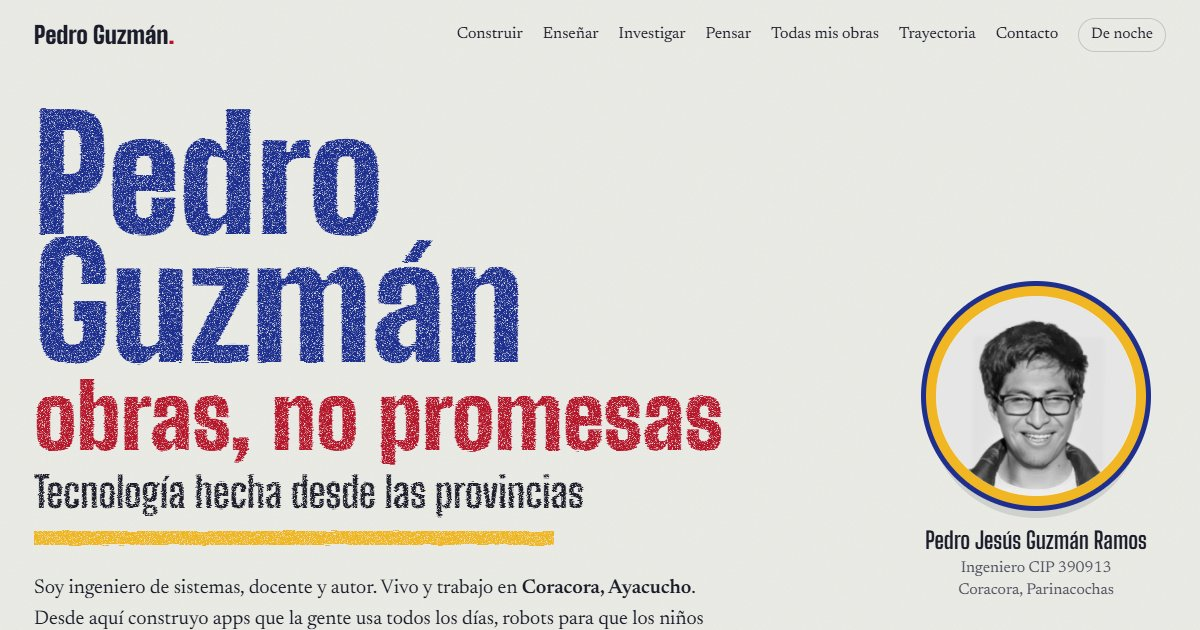
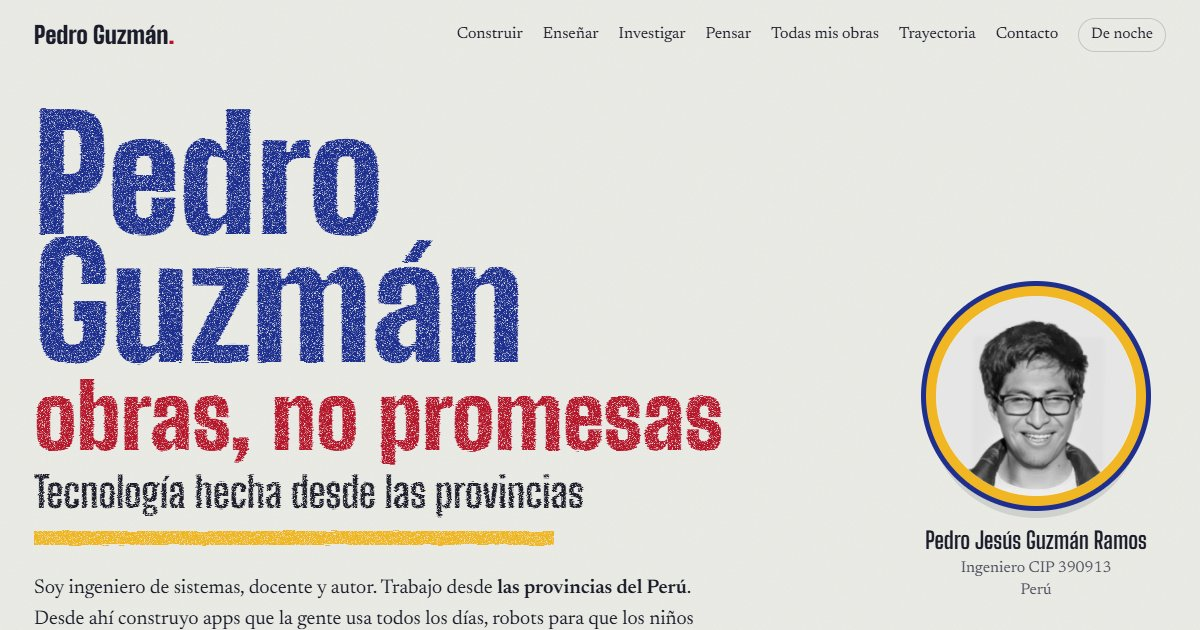
Ubicación general (Perú) en presentación y SEO

Changed region(s): [[0.0617, 0.9048, 0.5858, 1.0], [0.8017, 0.9048, 0.925, 0.9651]]

diff --git a/index.html b/index.html
@@ -3,8 +3,8 @@
 <head>
 <meta charset="utf-8">
 <meta name="viewport" content="width=device-width, initial-scale=1">
-<title>Pedro Jesús Guzmán Ramos | Ingeniero de sistemas, docente y autor en Coracora, Ayacucho</title>
-<meta name="description" content="Pedro Jesús Guzmán Ramos: ingeniero de sistemas, docente y autor de Coracora, Ayacucho. Creador de ApuraY, TiniBot, MindBlock, QUIPUY y BIT-ONE, y autor de Libertad en los Andes.">
+<title>Pedro Jesús Guzmán Ramos | Ingeniero de sistemas, docente y autor peruano</title>
+<meta name="description" content="Pedro Jesús Guzmán Ramos: ingeniero de sistemas, docente y autor peruano. Creador de ApuraY, TiniBot, MindBlock, QUIPUY y BIT-ONE, y autor de Libertad en los Andes.">
 <meta name="author" content="Pedro Jesús Guzmán Ramos">
 <meta name="robots" content="index, follow, max-image-preview:large">
 <link rel="canonical" href="https://jesusguzman28.github.io/">
@@ -37,7 +37,7 @@
 <link rel="stylesheet" href="https://fonts.googleapis.com/css2?family=Big+Shoulders+Display:wght@500;700;900&family=Newsreader:ital,opsz,wght@0,6..72,400;0,6..72,500;0,6..72,600;1,6..72,400&display=swap" media="print" onload="this.media='all'">
 <noscript><link rel="stylesheet" href="https://fonts.googleapis.com/css2?family=Big+Shoulders+Display:wght@500;700;900&family=Newsreader:ital,opsz,wght@0,6..72,400;0,6..72,500;0,6..72,600;1,6..72,400&display=swap"></noscript>
 <script type="application/ld+json">
-{"@context": "https://schema.org", "@graph": [{"@type": "ProfilePage", "@id": "https://jesusguzman28.github.io/#pagina", "url": "https://jesusguzman28.github.io/", "name": "Pedro Jesús Guzmán Ramos", "inLanguage": "es-PE", "dateModified": "2026-10-10", "mainEntity": {"@id": "https://jesusguzman28.github.io/#pedro"}}, {"@type": "Person", "@id": "https://jesusguzman28.github.io/#pedro", "name": "Pedro Jesús Guzmán Ramos", "alternateName": ["Pedro Guzmán Ramos", "Jesús Guzmán", "Pedro Guzmán"], "description": "Ingeniero de Tecnologías de Información y Sistemas, docente y autor de Coracora, Ayacucho. Fundador de BIT-ONE y ApuraY, cofundador de TiniBot e ideólogo de Liberalismo Comunal.", "image": "https://jesusguzman28.github.io/assets/pedro.jpg", "url": "https://jesusguzman28.github.io/", "email": "mailto:pedrojesusguzmanramos@gmail.com", "jobTitle": ["Ingeniero de sistemas", "Docente", "Escritor"], "address": {"@type": "PostalAddress", "addressLocality": "Coracora", "addressRegion": "Ayacucho", "addressCountry": "PE"}, "nationality": {"@type": "Country", "name": "Perú"}, "alumniOf": [{"@type": "CollegeOrUniversity", "name": "Universidad ESAN"}, {"@type": "CollegeOrUniversity", "name": "Universidad Nacional de Huancavelica"}], "hasCredential": {"@type": "EducationalOccupationalCredential", "credentialCategory": "Colegiatura", "name": "Colegio de Ingenieros del Perú, CIP 390913"}, "worksFor": [{"@type": "Organization", "name": "BIT-ONE (Bitone E.I.R.L.)", "url": "https://bitone.pe"}, {"@type": "Organization", "name": "ApuraY", "url": "https://apuray.pe"}, {"@type": "Organization", "name": "TiniBot"}, {"@type": "EducationalOrganization", "name": "IESTP Paucar del Sarasara"}], "knowsAbout": ["Desarrollo de software", "Kotlin", "Laravel", "Aplicaciones Android", "Robótica educativa", "Inteligencia artificial", "Calidad de software", "ISO/IEC 25010", "Liberalismo Comunal", "Descentralización"], "sameAs": ["https://github.com/jesusguzman28", "https://www.linkedin.com/in/jesusguzman01/", "https://x.com/pjguzmanr", "https://www.instagram.com/jesusguzman6261/", "https://liberalismocomunal.org/pedro-jesus-guzman-ramos/", "https://orcid.org/0009-0005-5673-7452"]}, {"@type": "Book", "name": "Libertad en los Andes", "author": {"@id": "https://jesusguzman28.github.io/#pedro"}, "datePublished": "2026-07", "numberOfPages": 216, "inLanguage": "es", "image": "https://jesusguzman28.github.io/assets/libertad-en-los-andes.jpg", "url": "https://www.amazon.com/dp/B0HCXB894L"}]}
+{"@context": "https://schema.org", "@graph": [{"@type": "ProfilePage", "@id": "https://jesusguzman28.github.io/#pagina", "url": "https://jesusguzman28.github.io/", "name": "Pedro Jesús Guzmán Ramos", "inLanguage": "es-PE", "dateModified": "2026-10-10", "mainEntity": {"@id": "https://jesusguzman28.github.io/#pedro"}}, {"@type": "Person", "@id": "https://jesusguzman28.github.io/#pedro", "name": "Pedro Jesús Guzmán Ramos", "alternateName": ["Pedro Guzmán Ramos", "Jesús Guzmán", "Pedro Guzmán"], "description": "Ingeniero de Tecnologías de Información y Sistemas, docente y autor peruano. Fundador de BIT-ONE y ApuraY, cofundador de TiniBot e ideólogo de Liberalismo Comunal.", "image": "https://jesusguzman28.github.io/assets/pedro.jpg", "url": "https://jesusguzman28.github.io/", "email": "mailto:pedrojesusguzmanramos@gmail.com", "jobTitle": ["Ingeniero de sistemas", "Docente", "Escritor"], "address": {"@type": "PostalAddress", "addressCountry": "PE"}, "nationality": {"@type": "Country", "name": "Perú"}, "alumniOf": [{"@type": "CollegeOrUniversity", "name": "Universidad ESAN"}, {"@type": "CollegeOrUniversity", "name": "Universidad Nacional de Huancavelica"}], "hasCredential": {"@type": "EducationalOccupationalCredential", "credentialCategory": "Colegiatura", "name": "Colegio de Ingenieros del Perú, CIP 390913"}, "worksFor": [{"@type": "Organization", "name": "BIT-ONE (Bitone E.I.R.L.)", "url": "https://bitone.pe"}, {"@type": "Organization", "name": "ApuraY", "url": "https://apuray.pe"}, {"@type": "Organization", "name": "TiniBot"}, {"@type": "EducationalOrganization", "name": "IESTP Paucar del Sarasara"}], "knowsAbout": ["Desarrollo de software", "Kotlin", "Laravel", "Aplicaciones Android", "Robótica educativa", "Inteligencia artificial", "Calidad de software", "ISO/IEC 25010", "Liberalismo Comunal", "Descentralización"], "sameAs": ["https://github.com/jesusguzman28", "https://www.linkedin.com/in/jesusguzman01/", "https://x.com/pjguzmanr", "https://www.instagram.com/jesusguzman6261/", "https://liberalismocomunal.org/pedro-jesus-guzman-ramos/", "https://orcid.org/0009-0005-5673-7452"]}, {"@type": "Book", "name": "Libertad en los Andes", "author": {"@id": "https://jesusguzman28.github.io/#pedro"}, "datePublished": "2026-07", "numberOfPages": 216, "inLanguage": "es", "image": "https://jesusguzman28.github.io/assets/libertad-en-los-andes.jpg", "url": "https://www.amazon.com/dp/B0HCXB894L"}]}
 </script>
 <style>
 :root{
@@ -315,7 +315,7 @@ footer .envoltura{display:flex; flex-wrap:wrap; justify-content:space-between; g
           <span class="l3">Tecnología hecha desde las provincias</span>
         </h1>
         <span class="subrayado pintado" aria-hidden="true"></span>
-        <p class="bajada">Soy ingeniero de sistemas, docente y autor. Vivo y trabajo en <strong>Coracora, Ayacucho</strong>. Desde aquí construyo apps que la gente usa todos los días, robots para que los niños del campo aprendan a programar y un sistema para mi instituto. También escribo sobre una libertad que nace abajo.</p>
+        <p class="bajada">Soy ingeniero de sistemas, docente y autor. Trabajo desde <strong>las provincias del Perú</strong>. Desde ahí construyo apps que la gente usa todos los días, robots para que los niños del campo aprendan a programar y un sistema para mi instituto. También escribo sobre una libertad que nace abajo.</p>
         <div class="acciones">
           <a class="boton" href="#idea">Conoce mi trabajo</a>
           <a class="boton sec" href="#contacto">Escríbeme</a>
@@ -323,7 +323,7 @@ footer .envoltura{display:flex; flex-wrap:wrap; justify-content:space-between; g
       </div>
       <figure class="chapita">
         <div class="disco"><img src="assets/pedro.jpg" fetchpriority="high" alt="Pedro Jesús Guzmán Ramos sonriendo, con lentes" width="238" height="238"></div>
-        <figcaption>Pedro Jesús Guzmán Ramos<small>Ingeniero CIP 390913<br>Coracora, Parinacochas</small></figcaption>
+        <figcaption>Pedro Jesús Guzmán Ramos<small>Ingeniero CIP 390913<br>Perú</small></figcaption>
       </figure>
     </div>
   </section>
@@ -588,7 +588,7 @@ footer .envoltura{display:flex; flex-wrap:wrap; justify-content:space-between; g
 
 <footer>
   <div class="envoltura">
-    <span>Pedro Jesús Guzmán Ramos, Coracora, Ayacucho, Perú</span>
+    <span>Pedro Jesús Guzmán Ramos, Perú</span>
     <span>Cada commit, una pieza del rompecabezas.</span>
   </div>
 </footer>
